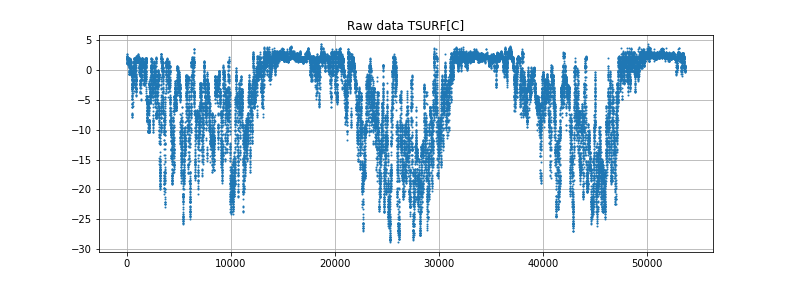
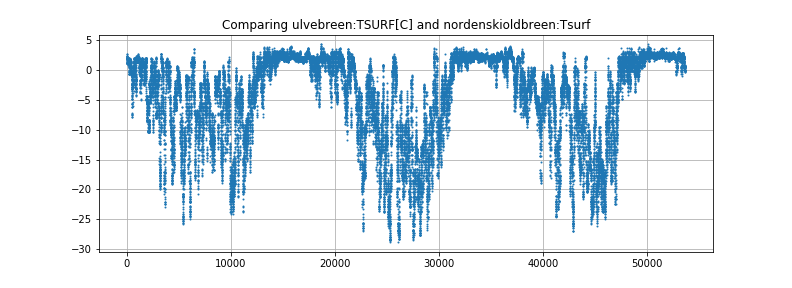
Average timdedelta solvage and comparing solvage

Changed region(s): [[0.2727, 0.0625, 0.7576, 0.125]]

diff --git a/comparingT.py b/comparingT.py
@@ -9,28 +9,46 @@ import numpy as np
 import matplotlib.pyplot as plt
 
 
-listnorden=['WD', 'WS', 'WSm', 'Sin', 'Sout', 'Lin', 'Lout', 'Trad', 'Tsurf', 'Tpot', 'T', 'T2m', 'q', 'RH', 'P', 'H1', 'Q1', 'H2', 'Q2', 'T1', 'T2', 'T3', 'T4', 'T5', 'T6', 'T7', 'T8', 'T9', 'T10', 'A1', 'A2', 'Bat', 'Tint', 'Stoa', 'Qual', 'AWSid']
-listulven= ['Day', 'TC1avg[C]', 'TC2avg[C]', 'TSURF[C]', 'TSTR1[C]', 'TSTR2[C]', 'TSTR3[C]', 'TSTR4[C]', 'TSTR5[C]', 'TSTR6[C]', 'TSTR7[C]', 'TSTR8[C]', 'THUTavg[C]', 'THUT2m[K]', 'THUTpot[K]', 'RHWavg[%]', 'SPECHUM[g_kg]', 'HWSavg[m_s]', 'HWSmax[m_s]', 'HWDavg[deg]', 'Stoa[W_m2]', 'NRUavg[W_m2]', 'NRLavg[W_m2]', 'NRIUavg[W_m2]', 'NRILavg[W_m2]', 'NRTavg[C]', 'BAP[hPa]', 'SSH[m]', 'ADW[m]', 'MCH[deg]', 'TILTX[deg]', 'TILTY[deg]', 'LON[deg]', 'LAT[deg]', 'HMSL[m]', 'VBAT[V]', 'LBUT[days]', 'Qual', 'AWSid']
+listnorden=['Tsurf', 'T2m']
+listulven= ['TSURF[C]', 'THUT2m[K]']
 
-Datenorden=np.load("Nordenbreen/Date.npy")
-Dateulve=np.load("Ulvebreen/Date.npy")
+daten=np.load("Nordenskioldbreen/Date.npy")
+dateu=np.load("Ulvebreen/Date.npy")
+
+'''
+Tsurf 		= Surface temperature derived from outgoing longwave radiation
+T2m 		= 2m temperature based on T and H
+
+TC1avg[C]		= THERMOCOUPLE 1 
+TC2avg[C]		= THERMOCOUPLE 2
+
+TSURF[C]		= Surface temperature derived from outgoing longwave radiation
+TSTR1[C]		= SNOW TEMPERATURE STRING 1
+TSTR2[C]		= SNOW TEMPERATURE STRING 2 
+TSTR3[C]		= SNOW TEMPERATURE STRING 3
+TSTR4[C]		= SNOW TEMPERATURE STRING 4
+TSTR5[C]		= SNOW TEMPERATURE STRING 5
+TSTR6[C]		= SNOW TEMPERATURE STRING 6
+TSTR7[C]		= SNOW TEMPERATURE STRING 7
+TSTR8[C]		= SNOW TEMPERATURE STRING 8
+THUTavg[C]		= MAIN HUT TEMPERATURE
+THUT2m[K]		= 2m temperature based on THUTavg and SSH
+THUTpot[K]		= potential temperature based on THUTavg and BAP
+'''
 
 ulve={}
-for i in listulven:
+for k, i in enumerate(listulven):
         ulve["{0}".format(i)]=np.load("Ulvebreen/"+i+".npy")   
-        fig=plt.figure(i, figsize=(11, 4))
-        plt.plot(ulve[i], '.', markersize = 2)
-        plt.title("Raw data "+i)
-        plt.grid(True); plt.show() # show plot on screen
-        fig.savefig("Figures/ulvebreen/rawdata_"+i+".png")
-        plt.show
 
 norden={}
-for i in listnorden:
-        norden["{0}".format(i)]=np.load("Nordenskioldbreen/"+i+".npy")   
-        fig=plt.figure(i, figsize=(11, 4))
-        plt.plot(norden[i], '.', markersize = 2)
-        plt.title("Raw data "+i)
-        plt.grid(True); plt.show() # show plot on screen
-        fig.savefig("Figures/nordenskioldbreen/rawdata_"+i+".png")
-        plt.show
+for k, j in enumerate(listnorden):
+        norden["{0}".format(j)]=np.load("Nordenskioldbreen/"+j+".npy")   
+
+for l in range(2):
+    fig=plt.figure(1, figsize=(11, 4))
+    plt.plot(daten, norden[listnorden[l]], '.', color='red', markersize = 2, label="nordenskioldbreen "+listnorden[l])
+    plt.plot(dateu, ulve[listulven[l]], '.', color='blue', markersize = 2, label="ulvebreen "+listulven[0])
+    plt.title("Comparing ulvebreen:"+listulven[l]+" and nordenskioldbreen:"+listnorden[l])
+    plt.grid(True); plt.legend(); plt.show();# show plot on screen
+    fig.savefig("Figures/compare/compare_n"+listnorden[l]+"_u"+listulven[l]+".png")
+

diff --git a/average.py b/average.py
@@ -18,33 +18,37 @@ date = np.load('Ulvebreen/Date.npy')
 T_surf = np.load('Ulvebreen/TSURF[C].npy')
 
 # Calculate daily values
-days = 133
+days = 1117
 
 store=[]
 td=np.timedelta64(1,'D')
 start=np.datetime64('2015-08-23T00:00')
 stop=start+td
 year=2016
+k=0
 
 for i in range(days):
+    print(i, year)
     startindex=np.where(date==start)
-    stopindex=np.where(date==stop)
-    if stop ==  np.datetime64(str(year)+'-01-01T00:00'):
-        stopindex=startindex[0]+48
+    stopindex=np.where(date==stop)    
+    print(start,stop)
+    print(startindex, stopindex)
+    if k == 1:
+        x=np.nanmean(T_surf[int(stopyear[0]):int(stopindex[0])])  
         year=year+1
-        x=np.nanmean(T_surf[int(startindex[0]):int(stopindex)])
+        k=0
+    elif stop ==  np.datetime64(str(year)+'-01-01T00:00'):
+        stopyear=startindex[0]+48
+        x=np.nanmean(T_surf[int(startindex[0]):int(stopyear[0])])
+        k=1
     else:
         x=np.nanmean(T_surf[int(startindex[0]):int(stopindex[0])])
-    print(start, stop)
-    print(startindex, stopindex)
-    store.append(x)
-    start=start+td
     stop=stop+td
-    
-print(store)
+    start=start+td
+    store.append(x)
             
-plt.plot(store, '.', markersize= 5 )
-plt.show()
+plt.plot(store, '.', markersize= 5 ); 
+plt.title(); plt.grid(True); plt.show()
 
 
 
